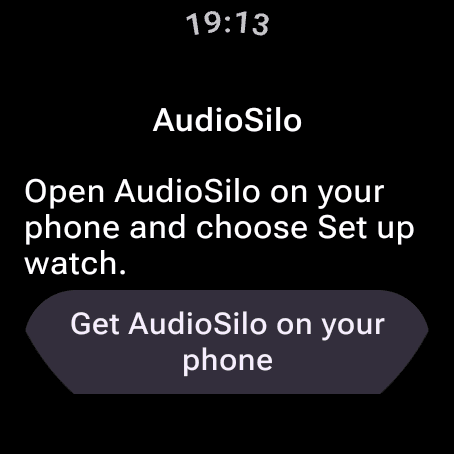
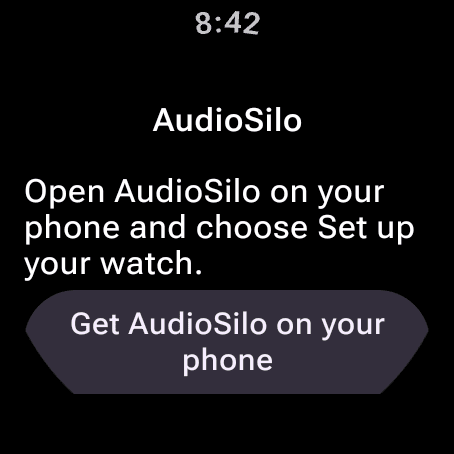
Add the Wear OS shots from the device run
Waiting for Wi-Fi, Sync, the too-old screen and another account on the watch; the install card and a book downloading beside one preparing on the phone. The setup screen is retaken with its new wording (choose Set up your watch).

Changed region(s): [[0.0617, 0.5551, 0.4626, 0.6167], [0.4009, 0.0, 0.6167, 0.0925]]

diff --git a/docs-users/listening/wear-os.md b/docs-users/listening/wear-os.md
@@ -31,6 +31,9 @@ The Wear OS app has been tested on the Wear OS emulator, not yet on a real watch
 
 1. On your phone, open your [account page](account.md#opening-it) for the server.
 2. On the **Wear OS watch** card, tap **Install on watch**. Google Play opens on your watch at AudioSilo. Install it there.
+
+   ![The Wear OS watch card before AudioSilo is on the watch, with Install on watch](/img/screenshots/wear/phone-card-install.png)
+
 3. Back on the card, tap **Set up your watch**.
 4. Keep the watch close. It signs in by itself, with nothing to type and no need to open the app.
 
@@ -76,6 +79,8 @@ While a book downloads, a notification on the watch says *Getting (the book) rea
 
 The watch downloads over Wi-Fi. If it finds no Wi-Fi within 30 seconds, the row says **Waiting for Wi-Fi** and offers **Use the phone's connection (slow)** for that book. That goes through your phone over Bluetooth, which can be much slower for a large book.
 
+![On the way on the watch: a book Waiting for Wi-Fi, with Use the phone's connection (slow)](/img/screenshots/wear/watch-waiting-for-wifi.png)
+
 Wear OS can hold background work back to save battery. If a book stays waiting, open AudioSilo on the watch. If it says **Couldn't download**, tap **Try again** on its Continue listening row, or send it again from your phone.
 
 ## In Downloads on your phone
@@ -85,6 +90,8 @@ The [Downloads](offline-downloads.md#the-downloads-page) page on your phone has 
 ![On your watch in Downloads on an Android phone: a book with its size](/img/screenshots/wear/phone-downloads-section.png)
 
 Each row says how far the book has got: sent, delivered to your watch, preparing on the server, downloading, then on your watch. A row can lag behind the watch's own screen. If your watch hasn't taken a book in 7 days, tap **Send again**.
+
+![On your watch in Downloads on an Android phone: one book downloading to the watch, one preparing on the server](/img/screenshots/wear/phone-downloads-preparing.png)
 
 To take a book off the watch from your phone, tap **Remove** on its row. If the book is playing on the watch, it stops. Your place in the book is kept.
 
@@ -136,11 +143,15 @@ Listening is sent when you open the app, and about once a minute while it's open
 
 **Sync**, on the watch's home screen, shows the last sync and how many updates are waiting. **Sync now** sends them. It also lists anything the server turned down, and the server's name, address and version.
 
+![Sync on the watch: the last sync, 2 updates waiting, and Can't reach your server](/img/screenshots/wear/watch-sync.png)
+
 Your phone's card shows a short version of the same.
 
 ## If the server is too old
 
 If the server is older than 2.6 or has no ffmpeg, the watch says so instead of showing its home screen. Fix the server, then tap **Try again**.
+
+![The watch against a 2.5.1 server: too old for the watch app, with Try again](/img/screenshots/wear/watch-too-old.png)
 
 ## At home and away
 
@@ -162,6 +173,8 @@ Without a trusted away address, the watch still plays its books anywhere, but sy
 ![Sign out on the watch: 2 listening updates not synced yet, and Sync now](/img/screenshots/wear/watch-sign-out.png)
 
 To switch accounts, tap **Set up your watch** on the other account's card on your phone. The watch then asks whether to switch or keep its account. Switching removes the old account's books from the watch.
+
+![Another account wants this watch, with Switch and Keep this account](/img/screenshots/wear/watch-another-account.png)
 
 Signing out on your phone leaves the watch signed in. To cut off a lost watch, tap **Sign out** on its row under [Signed-in devices](account.md#signed-in-devices).
 
